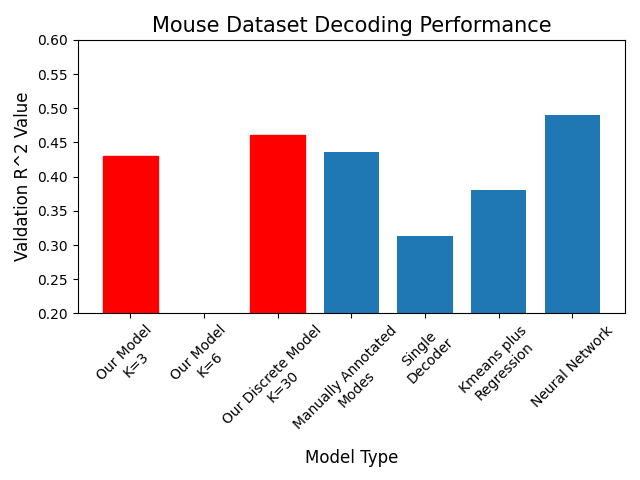
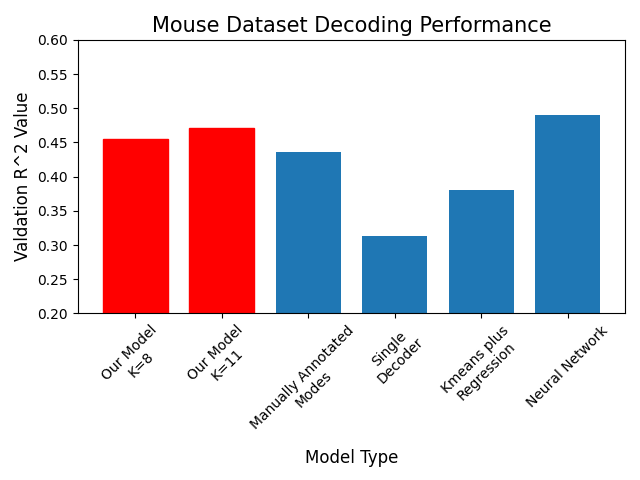
first draft of cosyne figures

diff --git a/eval/cosyne_figures.py b/eval/cosyne_figures.py
@@ -1,0 +1,83 @@
+# Script for Cosyne Abstract submission
+
+# Import packages
+import matplotlib.pyplot as plt
+import numpy as np
+
+### Monkey validation performance figure
+
+# val R^2 values for each model
+our_model_discrete_k3 = [0.5348]
+our_model_discrete_k6 = [0.5657]
+sep_modes = [0.5246]
+single_decoder = [0.4282]
+sep_clusters = [0.5258]
+neural_network = [0.5852]
+
+# Choose what results to create bar graph with
+models = [our_model_discrete_k3, our_model_discrete_k6, sep_modes, single_decoder, sep_clusters, neural_network]
+model_names = ['Our Model\nK=3', 'Our Model\nK=6','Manually Annotated\nModes','Single\nDecoder','Kmeans plus\nRegression', 'Neural Network']
+title = "Monkey Dataset Decoding Performance"
+
+# Plot graph
+verbose = False
+val_r2s = [model[0] for model in models]
+n = len(models)
+x_axis = np.arange(n)
+width = 0.75
+# plt.figure(figsize=(7,6))
+bar_plot = plt.bar(x_axis, val_r2s, width=width)
+bar_plot[0].set_color('r')
+bar_plot[1].set_color('r')
+plt.ylim(0.2, 0.7)
+plt.xticks(x_axis, model_names, fontsize=10, rotation=45)
+plt.xlabel("Model Type", fontsize=12)
+plt.ylabel("Valdation R^2 Value", fontsize=12)
+plt.title(title, fontsize=15)
+plt.tight_layout()
+if verbose:
+    plt.show()
+else:
+    plt.savefig("figures/cosyne_figures/monkey_results.png")
+plt.clf()
+
+
+
+
+
+### Mouse validation performance figure
+
+# val R^2 values for each model
+our_model_discrete_k8 = [0.45572]
+our_model_discrete_k11 = [0.4713]
+sep_modes = [0.4356]
+single_decoder = [0.3139]
+sep_clusters = [0.3807]
+neural_network = [0.4903]
+
+# Choose what results to create bar graph with
+models = [our_model_discrete_k8, our_model_discrete_k11, sep_modes, single_decoder, sep_clusters, neural_network]
+model_names = ['Our Model\nK=8', 'Our Model\nK=11', 'Manually Annotated\nModes','Single\nDecoder','Kmeans plus\nRegression', 'Neural Network']
+
+title = "Mouse Dataset Decoding Performance"
+
+# Plot graph
+verbose = False
+val_r2s = [model[0] for model in models]
+n = len(models)
+x_axis = np.arange(n)
+width = 0.75
+# plt.figure(figsize=(7,6))
+bar_plot = plt.bar(x_axis, val_r2s, width=width)
+bar_plot[0].set_color('r')
+bar_plot[1].set_color('r')
+plt.ylim(0.2, 0.6)
+plt.xticks(x_axis, model_names, fontsize=10, rotation=45)
+plt.xlabel("Model Type", fontsize=12)
+plt.ylabel("Valdation R^2 Value", fontsize=12)
+plt.title(title, fontsize=15)
+plt.tight_layout()
+if verbose:
+    plt.show()
+else:
+    plt.savefig("figures/cosyne_figures/mouse_results.png")

diff --git a/eval/evaluate.py b/eval/evaluate.py
@@ -354,7 +354,7 @@ def check_clustering(model_path, num_to_print, dataset, config, plot_type, model
 
         # Create heatmap of overlap values
         fig, ax = plt.subplots()
-        heatmap = ax.imshow(overlap_array)
+        heatmap = ax.imshow(overlap_array, cmap='Greys')
         fig.colorbar(heatmap)
         # If working with cage data
         if num_modes == 3:
@@ -1143,25 +1143,35 @@ if __name__ == "__main__":
     # model_ids = [120]
     # model_ids = [426]
     # model_ids = [442, 443]
-
     # model_ids = [449]
     # model_ids = [120]
     # model_ids = [443]
-    model_ids = [484]
+
+    # model_ids = [484]
+    # model_ids = [483]
+    model_ids = [485]
+
     for model_id in model_ids:
         # model_path = "checkpoints_intervals/%s.ckpt" % model_id
         if model_id in [449]:
             model_path = "checkpoints/checkpoint%s_epoch=749.ckpt" % model_id
         else:
             model_path = "checkpoints/checkpoint%s_epoch=499.ckpt" % model_id
-            model_path = "checkpoints/checkpoint%s_epoch=474.ckpt" % model_id
+
+            # model_path = "checkpoints/checkpoint%s_epoch=449.ckpt" % model_id
+            # model_path = "checkpoints/checkpoint%s_epoch=474.ckpt" % model_id
+            # model_path = "checkpoints/checkpoint%s_epoch=479.ckpt" % model_id
+            model_path = "checkpoints/checkpoint%s_epoch=484.ckpt" % model_id
+            # model_path = "checkpoints/checkpoint%s_epoch=479.ckpt" % model_id
+            # model_path = "checkpoints/checkpoint%s_epoch=494.ckpt" % model_id
+            # model_path = "checkpoints/checkpoint%s_epoch=499.ckpt" % model_id
         num_to_print = 7800
         # num_to_print = 10000
-        plot_type = "distributions"
+        # plot_type = "distributions"
         # plot_type = "majority"
         # plot_type = "mode_average"
         # plot_type = "confusion_matrix"
-        # plot_type = "discrete_state_overlap"
+        plot_type = "discrete_state_overlap"
         # Check clustering
         check_clustering(dataset=dataset,
                         model_path=model_path,

diff --git a/run/TrainingModule.py b/run/TrainingModule.py
@@ -136,7 +136,7 @@ class Callback(pl.Callback):
         else:
             print("ERROR: choose valid annealing parameter")
             exit()
-        # print(pl_module.temperature)
+        print(pl_module.temperature)
 
     def on_validation_epoch_end(self, trainer, pl_module):
         
@@ -172,6 +172,9 @@ class Callback(pl.Callback):
         # end_temp = 0.01
         # end_temp = 0.001
         num_epochs = 500
+
+        # TODO: temp for continued training
+        epoch = epoch + 473
 
         # Anneal temperature at cosine rate
         # From Pytorch documentation for CosineAnnealingLR (https://pytorch.org/docs/stable/generated/torch.optim.lr_scheduler.CosineAnnealingLR.html)

diff --git a/run/run.py b/run/run.py
@@ -105,7 +105,9 @@ if __name__ == "__main__":
         trainer = Trainer(max_epochs=config.epochs, callbacks=[Callback(dataset), save_callback])
 
     # Fit the model
-    trainer.fit(model, train_dataloaders=dataset.train_dataloader(), val_dataloaders=dataset.val_dataloader())
+    # trainer.fit(model, train_dataloaders=dataset.train_dataloader(), val_dataloaders=dataset.val_dataloader())
+    # TODO: temp for continued training
+    trainer.fit(model, train_dataloaders=dataset.train_dataloader(), val_dataloaders=dataset.val_dataloader(), ckpt_path="/Users/andrewshen/Github_Repos/neural_decoding/checkpoints/checkpoint483_epoch=474.ckpt")
 
     wandb.finish()
 
